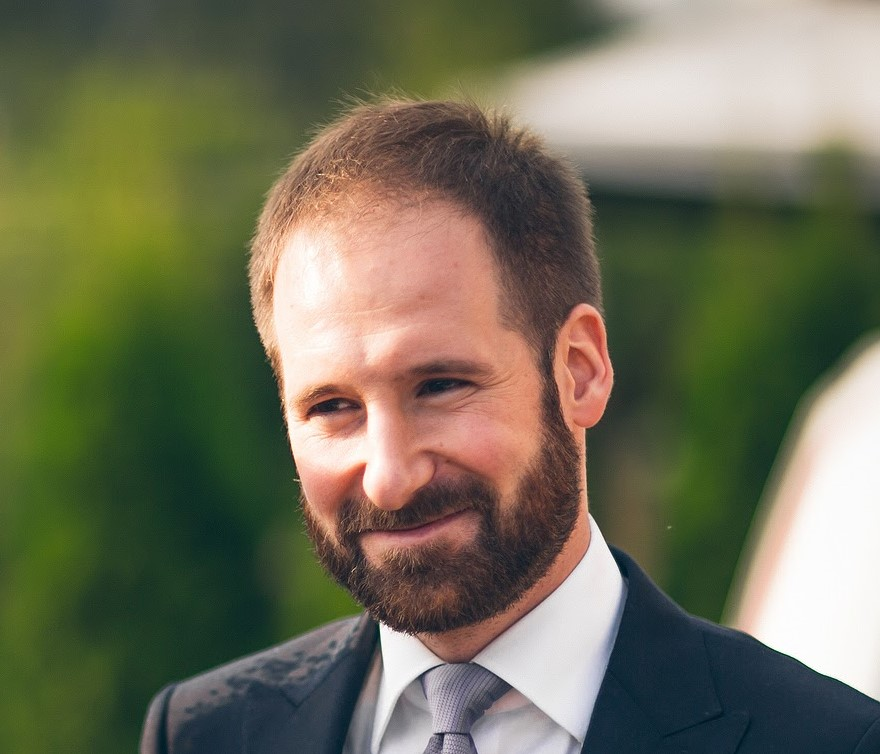
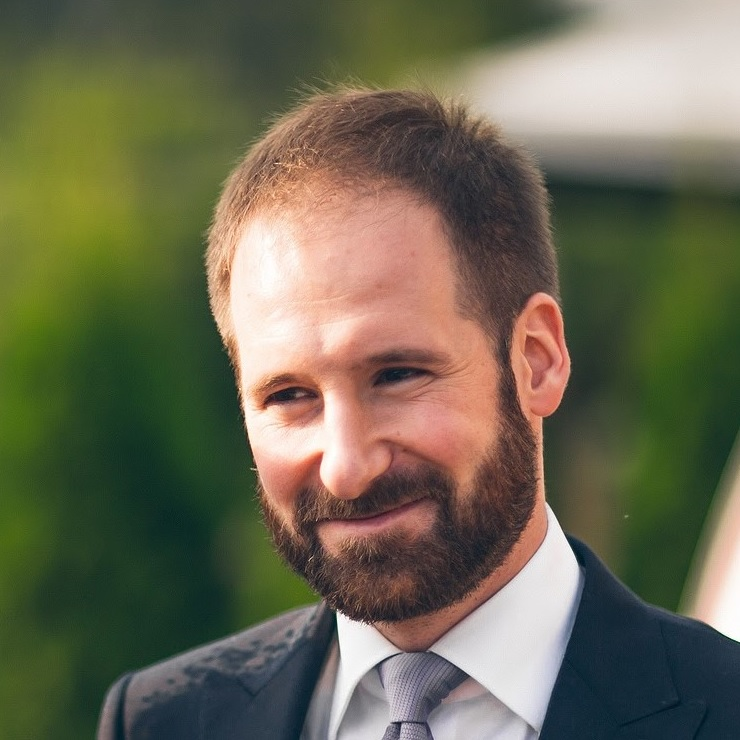
added bottom margin, margin-right, radius, width and height for picture

diff --git a/index.html b/index.html
@@ -15,33 +15,37 @@
           src="Tomek_K_mini.jpg"
           alt="Tomasz Kwietniewski zdjęcie"
         />
-        <header>
-          <h1 class="article__title">
-            Tomasz Kwietniewski
-          </h1>
-          <p class="article__title-description">
-            starszy obrabiacz skanów w APP
-          </p>
-        </header>
 
-        <p class="article__text">
-          Człowiek z misją. Może i nie jest najszybszy na świecie, ale rzeczy
-          robi porządnie. Z wykształcenie <strong class="article__text--special">polityk społeczny</strong>,
-          ale interesuje się również historią, sportem, gospodarką, nowymi
-          technologiami. Jednak największą jego radością jest
-          <strong class="article__text--special">edukowanie, dzielenie się wiedzą i zajawkami</strong>. Lubi
-          pomagać, ułatwiać i optymalizować ludziom życie:-) Ważne jest dla
-          niego dobro wspólne i rzetelność w przekazie informacji. Akltualnie
-          poświęca całe serce żonie i dwóm wspaniałym synom.
-        </p>
-
-        <p class="article__text">
-          W sieci:
-          <a class="article__link" href="https://github.com/tomasz-kwietniewski"
-            >GitHub</a
-          >, <a class="article__link" href="https://pedalowaniezsensem.wordpress.com/">Z sensem</a>.
-        </p>
-      </article>
+        <div>
+            <header class="article__header">
+                <h1 class="article__title">
+                  Tomasz Kwietniewski
+                </h1>
+                <p class="article__title-description">
+                  starszy obrabiacz skanów w APP
+                </p>
+              </header>
+      
+              <p class="article__text article__text--bottom">
+                Człowiek z misją. Może i nie jest najszybszy na świecie, ale rzeczy
+                robi porządnie. Z wykształcenie <strong class="special">polityk społeczny</strong>,
+                ale interesuje się również historią, sportem, gospodarką, nowymi
+                technologiami. Jednak największą jego radością jest
+                <strong class="special">edukowanie, dzielenie się wiedzą i zajawkami</strong>. Lubi
+                pomagać, ułatwiać i optymalizować ludziom życie:-) Ważne jest dla
+                niego dobro wspólne i rzetelność w przekazie informacji. Akltualnie
+                poświęca całe serce żonie i dwóm wspaniałym synom.
+              </p>
+      
+              <p class="article__text">
+                W sieci:
+                <a class="article__link" href="https://github.com/tomasz-kwietniewski"
+                  >GitHub</a
+                >, <a class="article__link" href="https://pedalowaniezsensem.wordpress.com/">Z sensem</a>.
+              </p>
+            </article>
+        </div>
+        
     </main>
   </body>
 </html>

diff --git a/style.css b/style.css
@@ -13,7 +13,7 @@ body {
   display: flex;
   align-items: center;
   justify-content: center;
-  min-height: 100%;
+  min-height: 100vh;
 }
 
 .main {
@@ -25,13 +25,24 @@ body {
 }
 
 .article {
+  display: flex;
+  align-items: flex-start;
+}
+
+.article__header {
+  margin-bottom: 24px;
 }
 
 .article__link {
   color: #e20613;
+  text-decoration: none;
 }
 
 .article__picture {
+  margin-right: 32px;
+  width: 148px;
+  height: 148px;
+  border-radius: 74px;
 }
 
 .article__text {
@@ -39,10 +50,12 @@ body {
   font-style: normal;
   font-weight: normal;
   font-size: 16px;
+  line-height: 22px;
+  margin: 0;
 }
 
-.article__text--special {
-  color: #ed6d05;
+.article__text--bottom {
+  margin-bottom: 22px;
 }
 
 .article__title {
@@ -50,6 +63,7 @@ body {
   font-style: normal;
   font-weight: normal;
   font-size: 36px;
+  line-height: 41px;
   margin: 0;
 }
 
@@ -58,6 +72,12 @@ body {
   font-style: italic;
   font-weight: normal;
   font-size: 18px;
+  line-height: 21px;
   color: #545454;
   margin: 0;
+}
+
+.special {
+  color: #ed6d05;
+  font-weight: normal;
 }
